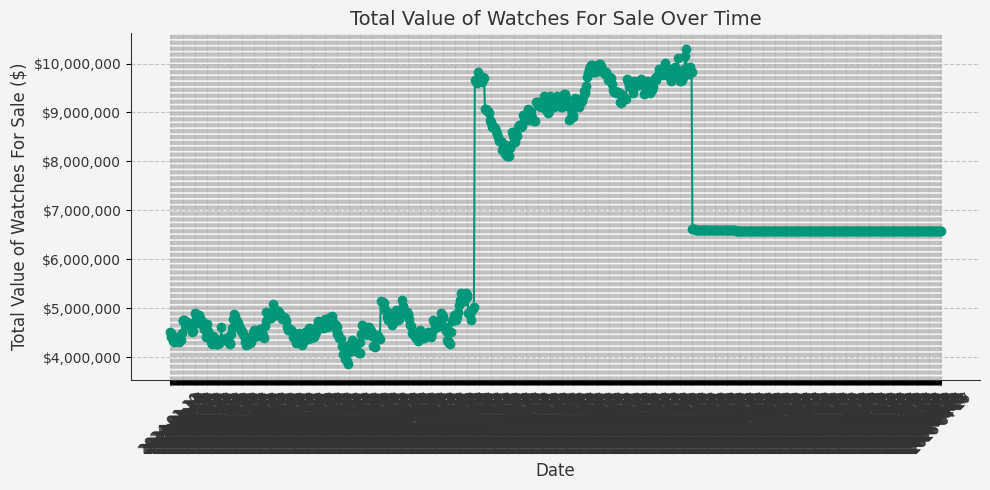
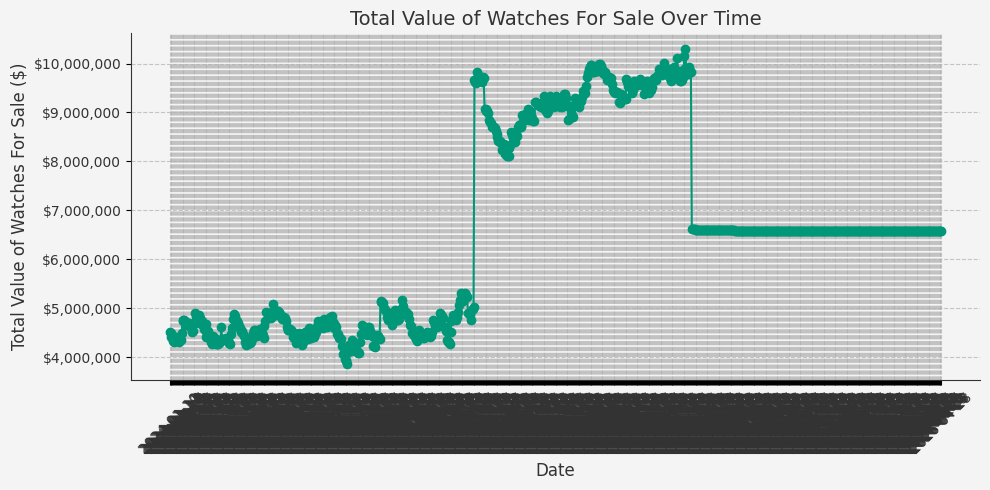
Update docs, portfolio image and portfolio statistics

diff --git a/docs/index.html b/docs/index.html
@@ -54,7 +54,7 @@
     </style>
 </head>
 <body>
-    <h1>Watch Data Report - 2026-04-27</h1>
+    <h1>Watch Data Report - 2026-04-28</h1>
     <div class="stats">
         <h3>Summary Statistics</h3>
         <p>Value of sold Watches: $0.00</p>
@@ -85,81 +85,6 @@
     </tr>
   </thead>
   <tbody>
-    <tr>
-      <td>1969 Rolex Submariner 5513 Serif Dial With Service Papers</td>
-      <td>None</td>
-      <td><a href="https://tropicalwatch.com/watches/1969-rolex-submariner-5513-serif-dial-with-service-papers/nlmm" target="_blank">Link</a></td>
-    </tr>
-    <tr>
-      <td>1999 Rolex Zenith Daytona 16520 White Dial</td>
-      <td>None</td>
-      <td><a href="https://tropicalwatch.com/watches/1999-rolex-zenith-daytona-16520-white-dial/ljgg" target="_blank">Link</a></td>
-    </tr>
-    <tr>
-      <td>2024 Rolex Titanium Yacht-Master 226627 With Box & Papers</td>
-      <td>None</td>
-      <td><a href="https://tropicalwatch.com/watches/2024-rolex-titanium-yacht-master-226627-with-box-papers/iazd" target="_blank">Link</a></td>
-    </tr>
-    <tr>
-      <td>2025 Tudor Ranger 79930 Black Dial With Box & Papers</td>
-      <td>None</td>
-      <td><a href="https://tropicalwatch.com/watches/2025-tudor-ranger-79930-black-dial-with-box-papers/fhd2" target="_blank">Link</a></td>
-    </tr>
-    <tr>
-      <td>2025 Rolex Gmt-Master Ii 126711 With Box & Papers</td>
-      <td>None</td>
-      <td><a href="https://tropicalwatch.com/watches/2025-rolex-gmt-master-ii-126711-with-box-papers/01pa" target="_blank">Link</a></td>
-    </tr>
-    <tr>
-      <td>1991 Rolex Gmt-Master 16700</td>
-      <td>None</td>
-      <td><a href="https://tropicalwatch.com/watches/1991-rolex-gmt-master-16700/w4ck" target="_blank">Link</a></td>
-    </tr>
-    <tr>
-      <td>Patek Philippe Aquanaut 5065A</td>
-      <td>None</td>
-      <td><a href="https://tropicalwatch.com/watches/patek-philippe-aquanaut-5065a/3bbk" target="_blank">Link</a></td>
-    </tr>
-    <tr>
-      <td>2022 Cartier Santos Large Wssa0018 With Box & Papers</td>
-      <td>None</td>
-      <td><a href="https://tropicalwatch.com/watches/2022-cartier-santos-large-wssa0018-with-box-papers/xbi4" target="_blank">Link</a></td>
-    </tr>
-    <tr>
-      <td>1995 Rolex 18K Yg Day-Date 18238 Black Roman Numeral Dial</td>
-      <td>None</td>
-      <td><a href="https://tropicalwatch.com/watches/1995-rolex-18k-yg-day-date-18238-black-roman-numeral-dial/upmn" target="_blank">Link</a></td>
-    </tr>
-    <tr>
-      <td>1967 Rolex Datejust 1601 Dark Gold Dial</td>
-      <td>None</td>
-      <td><a href="https://tropicalwatch.com/watches/1967-rolex-datejust-1601-dark-gold-dial/nakh" target="_blank">Link</a></td>
-    </tr>
-    <tr>
-      <td>Unpolished 1979 Rolex 18K Yg Datejust 16018 Tropical Dial</td>
-      <td>None</td>
-      <td><a href="https://tropicalwatch.com/watches/unpolished-1979-rolex-18k-yg-datejust-16018-tropical-dial/mz3k" target="_blank">Link</a></td>
-    </tr>
-    <tr>
-      <td>2023 Rolex Gmt-Master Ii 126720Vtnr With Box & Papers</td>
-      <td>None</td>
-      <td><a href="https://tropicalwatch.com/watches/2023-rolex-gmt-master-ii-126720vtnr-with-box-papers/j4yh" target="_blank">Link</a></td>
-    </tr>
-    <tr>
-      <td>Breitling Superocean Heritage 46 Ab202016/C961 Blue Dial With Box & Papers</td>
-      <td>None</td>
-      <td><a href="https://tropicalwatch.com/watches/breitling-superocean-heritage-46-ab202016-c961-blue-dial-with-box-papers/grbq" target="_blank">Link</a></td>
-    </tr>
-    <tr>
-      <td>2023 Cartier Tank Must Xl Wsta0040 With Box And Papers</td>
-      <td>None</td>
-      <td><a href="https://tropicalwatch.com/watches/2023-cartier-tank-must-xl-wsta0040-with-box-and-papers/dvlu" target="_blank">Link</a></td>
-    </tr>
-    <tr>
-      <td>Nos 2016 Rolex Air-King 116900 With Box & Papers</td>
-      <td>None</td>
-      <td><a href="https://tropicalwatch.com/watches/nos-2016-rolex-air-king-116900-with-box-papers/3ugn" target="_blank">Link</a></td>
-    </tr>
   </tbody>
 </table>
 